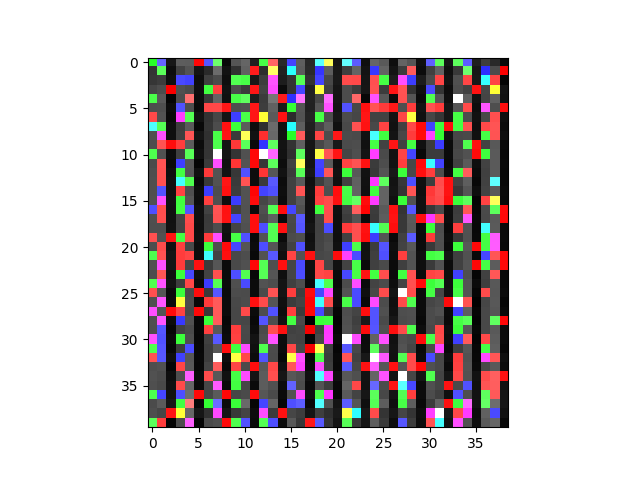
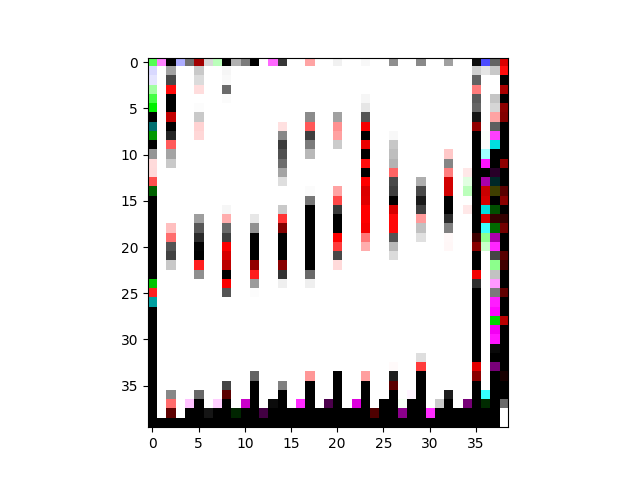
backup

diff --git a/LDAMP_TensorFlow/LearnedDAMP.py b/LDAMP_TensorFlow/LearnedDAMP.py
@@ -141,7 +141,7 @@ def GenerateMeasurementOperators(mode):
             return out
     elif mode=='dvb':
         is_complex=False
-        A_val = np.zeros([n, 1]) + 1j * np.zeros([n, 1])
+        A_val = np.zeros([1,n,channel_img]) + 1j * np.zeros([n, 1])
 #        A_val[0:n] = np.exp(1j*2*np.pi*np.random.rand(n,1))#The random sign vector
 
         global sparse_sampling_matrix
@@ -152,14 +152,32 @@ def GenerateMeasurementOperators(mode):
         vals=tf.ones(m, dtype=tf.float32);
         sparse_sampling_matrix = tf.SparseTensor(indices=inds, values=vals, dense_shape=[m,n])
 
-        A_val_tf = tf.placeholder(tf.complex64, [n, 1])
+        A_val_tf = tf.placeholder(tf.complex64, [1, n,channel_img])
         def A_handle(A_val_tf, x):
-            out = tf.sparse_tensor_dense_matmul(sparse_sampling_matrix,x,adjoint_a=False)
+            print(x)
+	    r, g, b = tf.unstack(x, axis=2)
+	    print(r)
+#            out = tf.stack(( \
+#		tf.scan(lambda _,_r : tf.sparse_tensor_dense_matmul(sparse_sampling_matrix,_r,adjoint_a=False), r), \
+#		tf.scan(lambda _,_g : tf.sparse_tensor_dense_matmul(sparse_sampling_matrix,_g,adjoint_a=False), g), \
+#		tf.scan(lambda _,_b : tf.sparse_tensor_dense_matmul(sparse_sampling_matrix,_b,adjoint_a=False), b)), axis=2)
+            out = tf.stack(( \
+		tf.transpose(tf.sparse_tensor_dense_matmul(sparse_sampling_matrix,tf.transpose(r),adjoint_a=False)), \
+		tf.transpose(tf.sparse_tensor_dense_matmul(sparse_sampling_matrix,tf.transpose(g),adjoint_a=False)), \
+		tf.transpose(tf.sparse_tensor_dense_matmul(sparse_sampling_matrix,tf.transpose(b),adjoint_a=False))), axis=2)
+            print(out)
             return out
 
         def At_handle(A_val_tf, z):
-            sign_vec=A_val_tf[0:n]
-            out = tf.sparse_tensor_dense_matmul(sparse_sampling_matrix,z,adjoint_a=True)
+	    r, g, b = tf.unstack(z, axis=2)
+#            out = tf.stack(( \
+#			tf.scan(lambda _, _r : tf.sparse_tensor_dense_matmul(sparse_sampling_matrix,_r,adjoint_a=True), r), \
+#			tf.scan(lambda _, _g : tf.sparse_tensor_dense_matmul(sparse_sampling_matrix,_g,adjoint_a=True), g), \
+#			tf.scan(lambda _, _b : tf.sparse_tensor_dense_matmul(sparse_sampling_matrix,_b,adjoint_a=True), b)), axis=2)
+            out = tf.stack(( \
+			tf.transpose(tf.sparse_tensor_dense_matmul(sparse_sampling_matrix,tf.transpose(r),adjoint_a=True)), \
+			tf.transpose(tf.sparse_tensor_dense_matmul(sparse_sampling_matrix,tf.transpose(g),adjoint_a=True)), \
+			tf.transpose(tf.sparse_tensor_dense_matmul(sparse_sampling_matrix,tf.transpose(b),adjoint_a=True))), axis=2)
             return out
     else:
         raise ValueError('Measurement mode not recognized')
@@ -244,7 +262,7 @@ def GenerateMeasurementMatrix(mode):
         vals=tf.ones(m, dtype=tf.float32);
         sparse_sampling_matrix = tf.SparseTensor(indices=inds, values=vals, dense_shape=[m,n])
     elif mode=='dvb':
-        A_val = np.zeros([n, 1]) + 1j * np.zeros([n, 1])
+        A_val = np.zeros([1,n, channel_img])
         rand_col_inds=np.random.permutation(range(n))
         rand_col_inds=rand_col_inds[0:m]
         row_inds = range(m)
@@ -258,7 +276,7 @@ def GenerateMeasurementMatrix(mode):
 #Learned DAMP
 def LDAMP(y,A_handle,At_handle,A_val,theta,x_true,tie,training=False,LayerbyLayer=True):
     z = y
-    xhat = tf.zeros([n, BATCH_SIZE], dtype=tf.float32)
+    xhat = tf.zeros([BATCH_SIZE, n,channel_img], dtype=tf.float32)
     MSE_history=[]#Will be a list of n_DAMP_layers+1 lists, each sublist will be of size BATCH_SIZE
     NMSE_history=[]
     PSNR_history=[]
@@ -268,7 +286,7 @@ def LDAMP(y,A_handle,At_handle,A_val,theta,x_true,tie,training=False,LayerbyLaye
     PSNR_history.append(PSNR_thisiter)
     for iter in range(n_DAMP_layers):
         if is_complex:
-            r = tf.complex(xhat,tf.zeros([n,BATCH_SIZE],dtype=tf.float32)) + At_handle(A_val,z)
+            r = tf.complex(xhat,tf.zeros([BATCH_SIZE, n, channel_img],dtype=tf.float32)) + At_handle(A_val,z)
             rvar = (1. / m_fp * tf.reduce_sum(tf.square(tf.abs(z)),axis=0))#In the latest version of TF, abs can handle complex values
         else:
             r = xhat + At_handle(A_val,z)
@@ -277,7 +295,13 @@ def LDAMP(y,A_handle,At_handle,A_val,theta,x_true,tie,training=False,LayerbyLaye
         if is_complex:
             z = y - A_handle(A_val, xhat) + n_fp / m_fp * tf.complex(dxdr,0.) * z
         else:
-            z = y - A_handle(A_val, xhat) + n_fp / m_fp * dxdr * z
+	    print(z)
+	    print(y)
+	    print(n_fp)
+	    print(m_fp)
+            print(dxdr)
+            print(xhat)
+            z = y - A_handle(A_val, xhat) + n_fp / m_fp #* dxdr * z
         (MSE_thisiter, NMSE_thisiter, PSNR_thisiter) = EvalError(xhat, x_true)
         MSE_history.append(MSE_thisiter)
         NMSE_history.append(NMSE_thisiter)
@@ -309,7 +333,7 @@ def LDAMP_Aty(Aty,A_handle,At_handle,A_val,theta,x_true,tie,training=False,Layer
             # z = y - A_handle(A_val, xhat) + n_fp / m_fp * tf.complex(dxdr,0.) * z
             Atz = Aty - At_handle(A_val, A_handle(A_val, xhat)) + n_fp / m_fp * tf.complex(dxdr,0.) * Atz
         else:
-            # z = y - A_handle(A_val, xhat) + n_fp / m_fp * dxdr * z
+            z = y - A_handle(A_val, xhat) + n_fp / m_fp * dxdr * z
             Atz = Aty - At_handle(A_val, A_handle(A_val, xhat)) +  n_fp / m_fp * dxdr * Atz
         (MSE_thisiter, NMSE_thisiter, PSNR_thisiter) = EvalError(xhat, x_true)
         MSE_history.append(MSE_thisiter)
@@ -547,11 +571,12 @@ def DnCNN_wrapper(r,rvar,theta_thislayer,training=False,LayerbyLayer=True):
     """
     xhat=DnCNN(r,rvar,theta_thislayer,training=training)
     r_abs = tf.abs(r, name=None)
-    epsilon = tf.maximum(.001 * tf.reduce_max(r_abs, axis=0),.00001)
+    epsilon = tf.maximum(.001 * tf.reduce_max(r_abs, axis=[0,1]),.00001)
     eta=tf.random_normal(shape=r.get_shape(),dtype=tf.float32)
     if is_complex:
         r_perturbed = r + tf.complex(tf.multiply(eta, epsilon),tf.zeros([n,BATCH_SIZE],dtype=tf.float32))
     else:
+	print(r)
         r_perturbed = r + tf.multiply(eta, epsilon)
     xhat_perturbed=DnCNN(r_perturbed,rvar,theta_thislayer,training=training)#Avoid computing gradients wrt this use of theta_thislayer
     eta_dx=tf.multiply(eta,xhat_perturbed-xhat)#Want element-wise multiplication
@@ -571,7 +596,9 @@ def DnCNN(r,rvar, theta_thislayer,training=False):
 
     if is_complex:
         r=tf.real(r)
-    r=tf.transpose(r)
+    print('rr',r)
+#    r=tf.transpose(r)
+    print('rt',r)
     orig_Shape = tf.shape(r)
     shape4D = [-1, height_img, width_img, channel_img]
     r = tf.reshape(r, shape4D)  # reshaping input
@@ -581,7 +608,7 @@ def DnCNN(r,rvar, theta_thislayer,training=False):
     # Conv + Relu
     with tf.variable_scope("l0"):
         conv_out = tf.nn.conv2d(r, weights[0], strides=[1, 1, 1, 1], padding='SAME',data_format='NHWC') #NCHW works faster on nvidia hardware, however I only perform this type of conovlution once so performance difference will be negligible
-        layers[0] = tf.nn.relu(conv_out)
+        layers[0] = tf.nn.leaky_relu(conv_out)
 
     #############  2nd to 2nd to Last Layer ###############
     # Conv + BN + Relu
@@ -589,7 +616,7 @@ def DnCNN(r,rvar, theta_thislayer,training=False):
         with tf.variable_scope("l" + str(i)):
             conv_out  = tf.nn.conv2d(layers[i-1], weights[i], strides=[1, 1, 1, 1], padding='SAME') #+ biases[i]
             batch_out = tf.layers.batch_normalization(inputs=conv_out, training=training, name='BN', reuse=tf.AUTO_REUSE)
-            layers[i] = tf.nn.relu(batch_out)
+            layers[i] = tf.nn.leaky_relu(batch_out)
 
     #############  Last Layer ###############
     # Conv
@@ -597,13 +624,14 @@ def DnCNN(r,rvar, theta_thislayer,training=False):
         layers[n_DnCNN_layers-1]  = tf.nn.conv2d(layers[n_DnCNN_layers-2], weights[n_DnCNN_layers-1], strides=[1, 1, 1, 1], padding='SAME')
 
     x_hat = r-layers[n_DnCNN_layers-1]
-    x_hat = tf.transpose(tf.reshape(x_hat,orig_Shape))
+#    x_hat = tf.transpose(tf.reshape(x_hat,orig_Shape))
+    x_hat = (tf.reshape(x_hat,orig_Shape))
     return x_hat
 
 ## Create training data from images, with tf and function handles
 def GenerateNoisyCSData_handles(x,A_handle,sigma_w,A_params):
     y = A_handle(A_params,x)
-    y = AddNoise(y,sigma_w)
+#    y = AddNoise(y,sigma_w)
     return y
 
 ## Create training data from images, with tf

diff --git a/LDAMP_TensorFlow/TrainLearnedDAMP.py b/LDAMP_TensorFlow/TrainLearnedDAMP.py
@@ -66,8 +66,8 @@ print(FLAGS)
 ## Network Parameters
 alg=FLAGS.alg
 tie_weights=FLAGS.tie_weights
-height_img = 1
-width_img = 39*40
+height_img = 40
+width_img = 39
 channel_img = 3 # RGB -> 3, Grayscale -> 1
 filter_height = 3
 filter_width = 3
@@ -85,18 +85,18 @@ if tie_weights==True:
     start_layer = max_n_DAMP_layers
 learning_rates = [0.001, 0.0001]#, 0.00001]
 EPOCHS = 50
-n_Train_Images=8000#128*1600#128*3000
+n_Train_Images=1000#128*1600#128*3000
 n_Val_Images=200#10000#Must be less than 21504
-BATCH_SIZE = 64
+BATCH_SIZE = 32
 InitWeightsMethod=FLAGS.init_method
 if LayerbyLayer==False:
     BATCH_SIZE = 16
 loss_func = FLAGS.loss_func
 
 ## Problem Parameters
-sampling_rate=.4
-sigma_w=1./255.#Noise std
-n=channel_img*height_img*width_img
+sampling_rate=.8
+sigma_w=0#1./255.#Noise std
+n=height_img*width_img
 m=int(np.round(sampling_rate*n))
 measurement_mode='dvb'#'gaussian'#'gaussian'#'coded-diffraction'#
 
@@ -118,7 +118,7 @@ for n_DAMP_layers in range(start_layer,max_n_DAMP_layers+1,1):
 
     # tf Graph input
     training_tf = tf.placeholder(tf.bool, name='training')
-    x_true = tf.placeholder(tf.float32, [n, BATCH_SIZE])
+    x_true = tf.placeholder(tf.float32, [BATCH_SIZE, n, channel_img], name="x_true")
 
     ## Initialize the variable theta which stores the weights and biases
     if tie_weights == True:
@@ -208,8 +208,10 @@ for n_DAMP_layers in range(start_layer,max_n_DAMP_layers+1,1):
     val_images=val_images[:,:,:,:]
     assert (len(val_images)>=n_Val_Images), "Requested too much validation data"
 
-    x_train = np.transpose(np.reshape(train_images, (-1, channel_img * height_img * width_img)))
-    x_val = np.transpose(np.reshape(val_images, (-1, channel_img * height_img * width_img)))
+#    x_train = np.transpose(np.reshape(train_images, (-1, height_img * width_img, channel_img)))
+    x_train = (np.reshape(train_images, (-1, height_img * width_img, channel_img)))
+    #x_val = np.transpose(np.reshape(val_images, (-1, height_img * width_img, channel_img)))
+    x_val = (np.reshape(val_images, (-1, height_img * width_img, channel_img)))
 
     ## Train the Model
     for learning_rate in learning_rates:
@@ -367,7 +369,7 @@ for n_DAMP_layers in range(start_layer,max_n_DAMP_layers+1,1):
 
                     # Generate a new measurement matrix
                     A_val=LDAMP.GenerateMeasurementMatrix(measurement_mode)
-                    batch_x_val = x_val[:, rand_inds[offset:end]]
+                    batch_x_val = x_val[rand_inds[offset:end],:]
 
                     # Run optimization. This will both generate compressive measurements and then recontruct from them.
                     loss_val = sess.run(cost, feed_dict={x_true: batch_x_val, A_val_tf:A_val, training_tf:False})
@@ -395,7 +397,7 @@ for n_DAMP_layers in range(start_layer,max_n_DAMP_layers+1,1):
 
                         # Generate a new measurement matrix
                         A_val = LDAMP.GenerateMeasurementMatrix(measurement_mode)
-                        batch_x_train = x_train[:, rand_inds[offset:end]]
+                        batch_x_train = x_train[rand_inds[offset:end],:]
 
                         # Run optimization. This will both generate compressive measurements and then recontruct from them.
                         _, loss_val = sess.run([optimizer,cost], feed_dict={x_true: batch_x_train, A_val_tf:A_val, training_tf:True})#Feed dict names should match with the placeholders
@@ -412,7 +414,7 @@ for n_DAMP_layers in range(start_layer,max_n_DAMP_layers+1,1):
 
                         # Generate a new measurement matrix
                         A_val = LDAMP.GenerateMeasurementMatrix(measurement_mode)
-                        batch_x_val = x_val[:, rand_inds[offset:end]]
+                        batch_x_val = x_val[rand_inds[offset:end], :]
 
                         # Run optimization. This will both generate compressive measurements and then recontruct from them.
                         loss_val, psnr_batch = sess.run([cost, PSNR_history ], feed_dict={x_true: batch_x_val, A_val_tf: A_val, training_tf:False})

diff --git a/LDAMP_TensorFlow/TestLearnedDAMP.py b/LDAMP_TensorFlow/TestLearnedDAMP.py
@@ -15,8 +15,8 @@ import h5py
 ## Network Parameters
 alg="DAMP"
 tie_weights=False
-height_img = 1
-width_img = 40*39
+height_img = 40
+width_img = 39
 channel_img = 3 # RGB -> 3, Grayscale -> 1
 filter_height = 3
 filter_width = 3
@@ -34,10 +34,10 @@ if DenoiserbyDenoiser:
 ## Testing/Problem Parameters
 BATCH_SIZE = 1#Using a batch size larger than 1 will hurt the denoiser by denoiser trained network because it will use an average noise level, rather than a noise level specific to each image
 n_Test_Images = 1
-sampling_rate_test=.4#The sampling rate used for testing
+sampling_rate_test=.8#The sampling rate used for testing
 sampling_rate_train=.4#The sampling rate that was used for training
 sigma_w=0.
-n=channel_img*height_img*width_img
+n=height_img*width_img
 m=int(np.round(sampling_rate_test*n))
 measurement_mode='dvb'#'Fast-JL'#'coded-diffraction'#'gaussian'#'complex-gaussian'#
 
@@ -55,7 +55,7 @@ LDAMP.SetNetworkParams(new_height_img=height_img, new_width_img=width_img, new_c
 LDAMP.ListNetworkParameters()
 
 # tf Graph input
-x_true = tf.placeholder(tf.float32, [n, BATCH_SIZE])
+x_true = tf.placeholder(tf.float32, [BATCH_SIZE, n, channel_img])
 
 #Create handles for the measurement operator
 [A_handle, At_handle, A_val, A_val_tf]=LDAMP.GenerateMeasurementOperators(measurement_mode)
@@ -100,7 +100,7 @@ test_images=test_images[:,:,:,:]
 print(len(test_images))
 assert (len(test_images)>=n_Test_Images), "Requested too much Test data"
 
-x_test = np.transpose( np.reshape(test_images, (-1, height_img * width_img * channel_img)))
+x_test = ( np.reshape(test_images, (-1, height_img * width_img , channel_img)))
 
 # with tf.Session() as sess:
 #     y_test=sess.run(y_measured,feed_dict={x_true: x_test, A_val_tf: A_val})#All the batches will use the same measurement matrix
@@ -167,7 +167,7 @@ with tf.Session() as sess:
         # Generate a new measurement matrix
         A_val = LDAMP.GenerateMeasurementMatrix(measurement_mode)
 
-        batch_x_test = x_test[:, offset:end]
+        batch_x_test = x_test[offset:end, :]
 
         # Run optimization. This will both generate compressive measurements and then recontruct from them.
         batch_x_recon, batch_MSE_hist, batch_NMSE_hist, batch_PSNR_hist = sess.run([x_hat, MSE_history, NMSE_history, PSNR_history], feed_dict={x_true: batch_x_test, A_val_tf: A_val})
@@ -175,11 +175,11 @@ with tf.Session() as sess:
     print(Final_PSNRs)
     print(np.mean(Final_PSNRs))
 #    fig1 = plt.figure()
-    plt.imshow((np.reshape(x_test[:, n_Test_Images-1], (height_img, width_img,channel_img ))), interpolation='nearest')
+    plt.imshow((np.reshape(x_test[n_Test_Images-1, :], (height_img, width_img,channel_img ))), interpolation='nearest')
 #    plt.show()
     plt.savefig('orig.png')
 #    fig2 = plt.figure()
-    plt.imshow((np.reshape(batch_x_recon[:, 0], (height_img, width_img, channel_img))), interpolation='nearest')
+    plt.imshow((np.reshape(batch_x_recon[0, :], (height_img, width_img, channel_img))), interpolation='nearest')
 #    plt.show()
     plt.savefig('recon.png')
 #    fig3 = plt.figure()

diff --git a/LDAMP_TensorFlow/TrainDnCNN.py b/LDAMP_TensorFlow/TrainDnCNN.py
@@ -42,9 +42,9 @@ FLAGS, unparsed = parser.parse_known_args()
 print(FLAGS)
 
 ## Network Parameters
-height_img = 50#50
-width_img = 50#50
-channel_img = 1 # RGB -> 3, Grayscale -> 1
+height_img = 40#50
+width_img = 39#50
+channel_img = 3 # RGB -> 3, Grayscale -> 1
 filter_height = 3
 filter_width = 3
 num_filters = 64
@@ -56,9 +56,9 @@ max_Epoch_Fails=3#How many training epochs to run without improvement in the val
 ResumeTraining=False#Load weights from a network you've already trained a little
 learning_rates = [0.001, 0.0001]#, 0.00001]
 EPOCHS = 50
-n_Train_Images=128*1600#3000
-n_Val_Images=10000#Must be less than 21504
-BATCH_SIZE = 128
+n_Train_Images=8000#128*1600#3000
+n_Val_Images=200#Must be less than 21504
+BATCH_SIZE = 32
 loss_func=FLAGS.loss_func
 if loss_func=='SURE':
     useSURE=True
@@ -114,11 +114,11 @@ LDAMP.CountParameters()
 ## Load and Preprocess Training Data
 #Training data was generated by GeneratingTrainingImages.m and ConvertImagestoNpyArrays.py
 train_images = np.load('./TrainingData/TrainingData_patch'+str(height_img)+'.npy')
-train_images=train_images[range(n_Train_Images),0,:,:]
+train_images=train_images[range(n_Train_Images),:,:,:]
 assert (len(train_images)>=n_Train_Images), "Requested too much training data"
 
 val_images = np.load('./TrainingData/ValidationData_patch'+str(height_img)+'.npy')
-val_images=val_images[:,0,:,:]
+val_images=val_images[:,:,:,:]
 assert (len(val_images)>=n_Val_Images), "Requested too much validation data"
 
 x_train = np.transpose(np.reshape(train_images, (-1, channel_img * height_img * width_img)))

diff --git a/LDAMP_TensorFlow/mytoken.py b/LDAMP_TensorFlow/mytoken.py
@@ -1,7 +1,7 @@
 import numpy as np
 
-SEQ_LEN_H = 1
-SEQ_LEN_W = 39*40
+SEQ_LEN_H = 40
+SEQ_LEN_W = 39
 channel_img = 3
 im = [8000, 200, 1]
 
